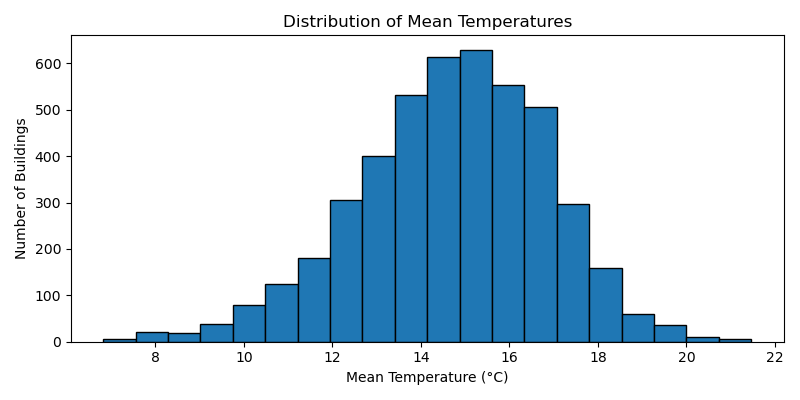
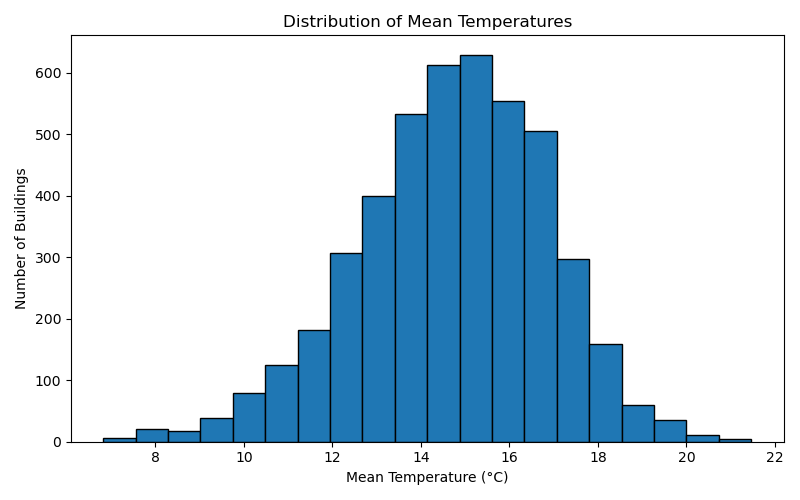
plot change

diff --git a/Python_scripts/stats_final.py b/Python_scripts/stats_final.py
@@ -12,7 +12,7 @@ count_above_18 = (data['pct_above_18'] >= 50).sum()
 count_below_15 = (data['pct_below_15'] >= 50).sum()
 
 output_path = "average_mean_temp.png"
-plt.figure(figsize=(8, 4))
+plt.figure(figsize=(8, 5))
 plt.hist(data['mean_temp'], bins=20, edgecolor='black')
 plt.title('Distribution of Mean Temperatures')
 plt.xlabel('Mean Temperature (°C)')
